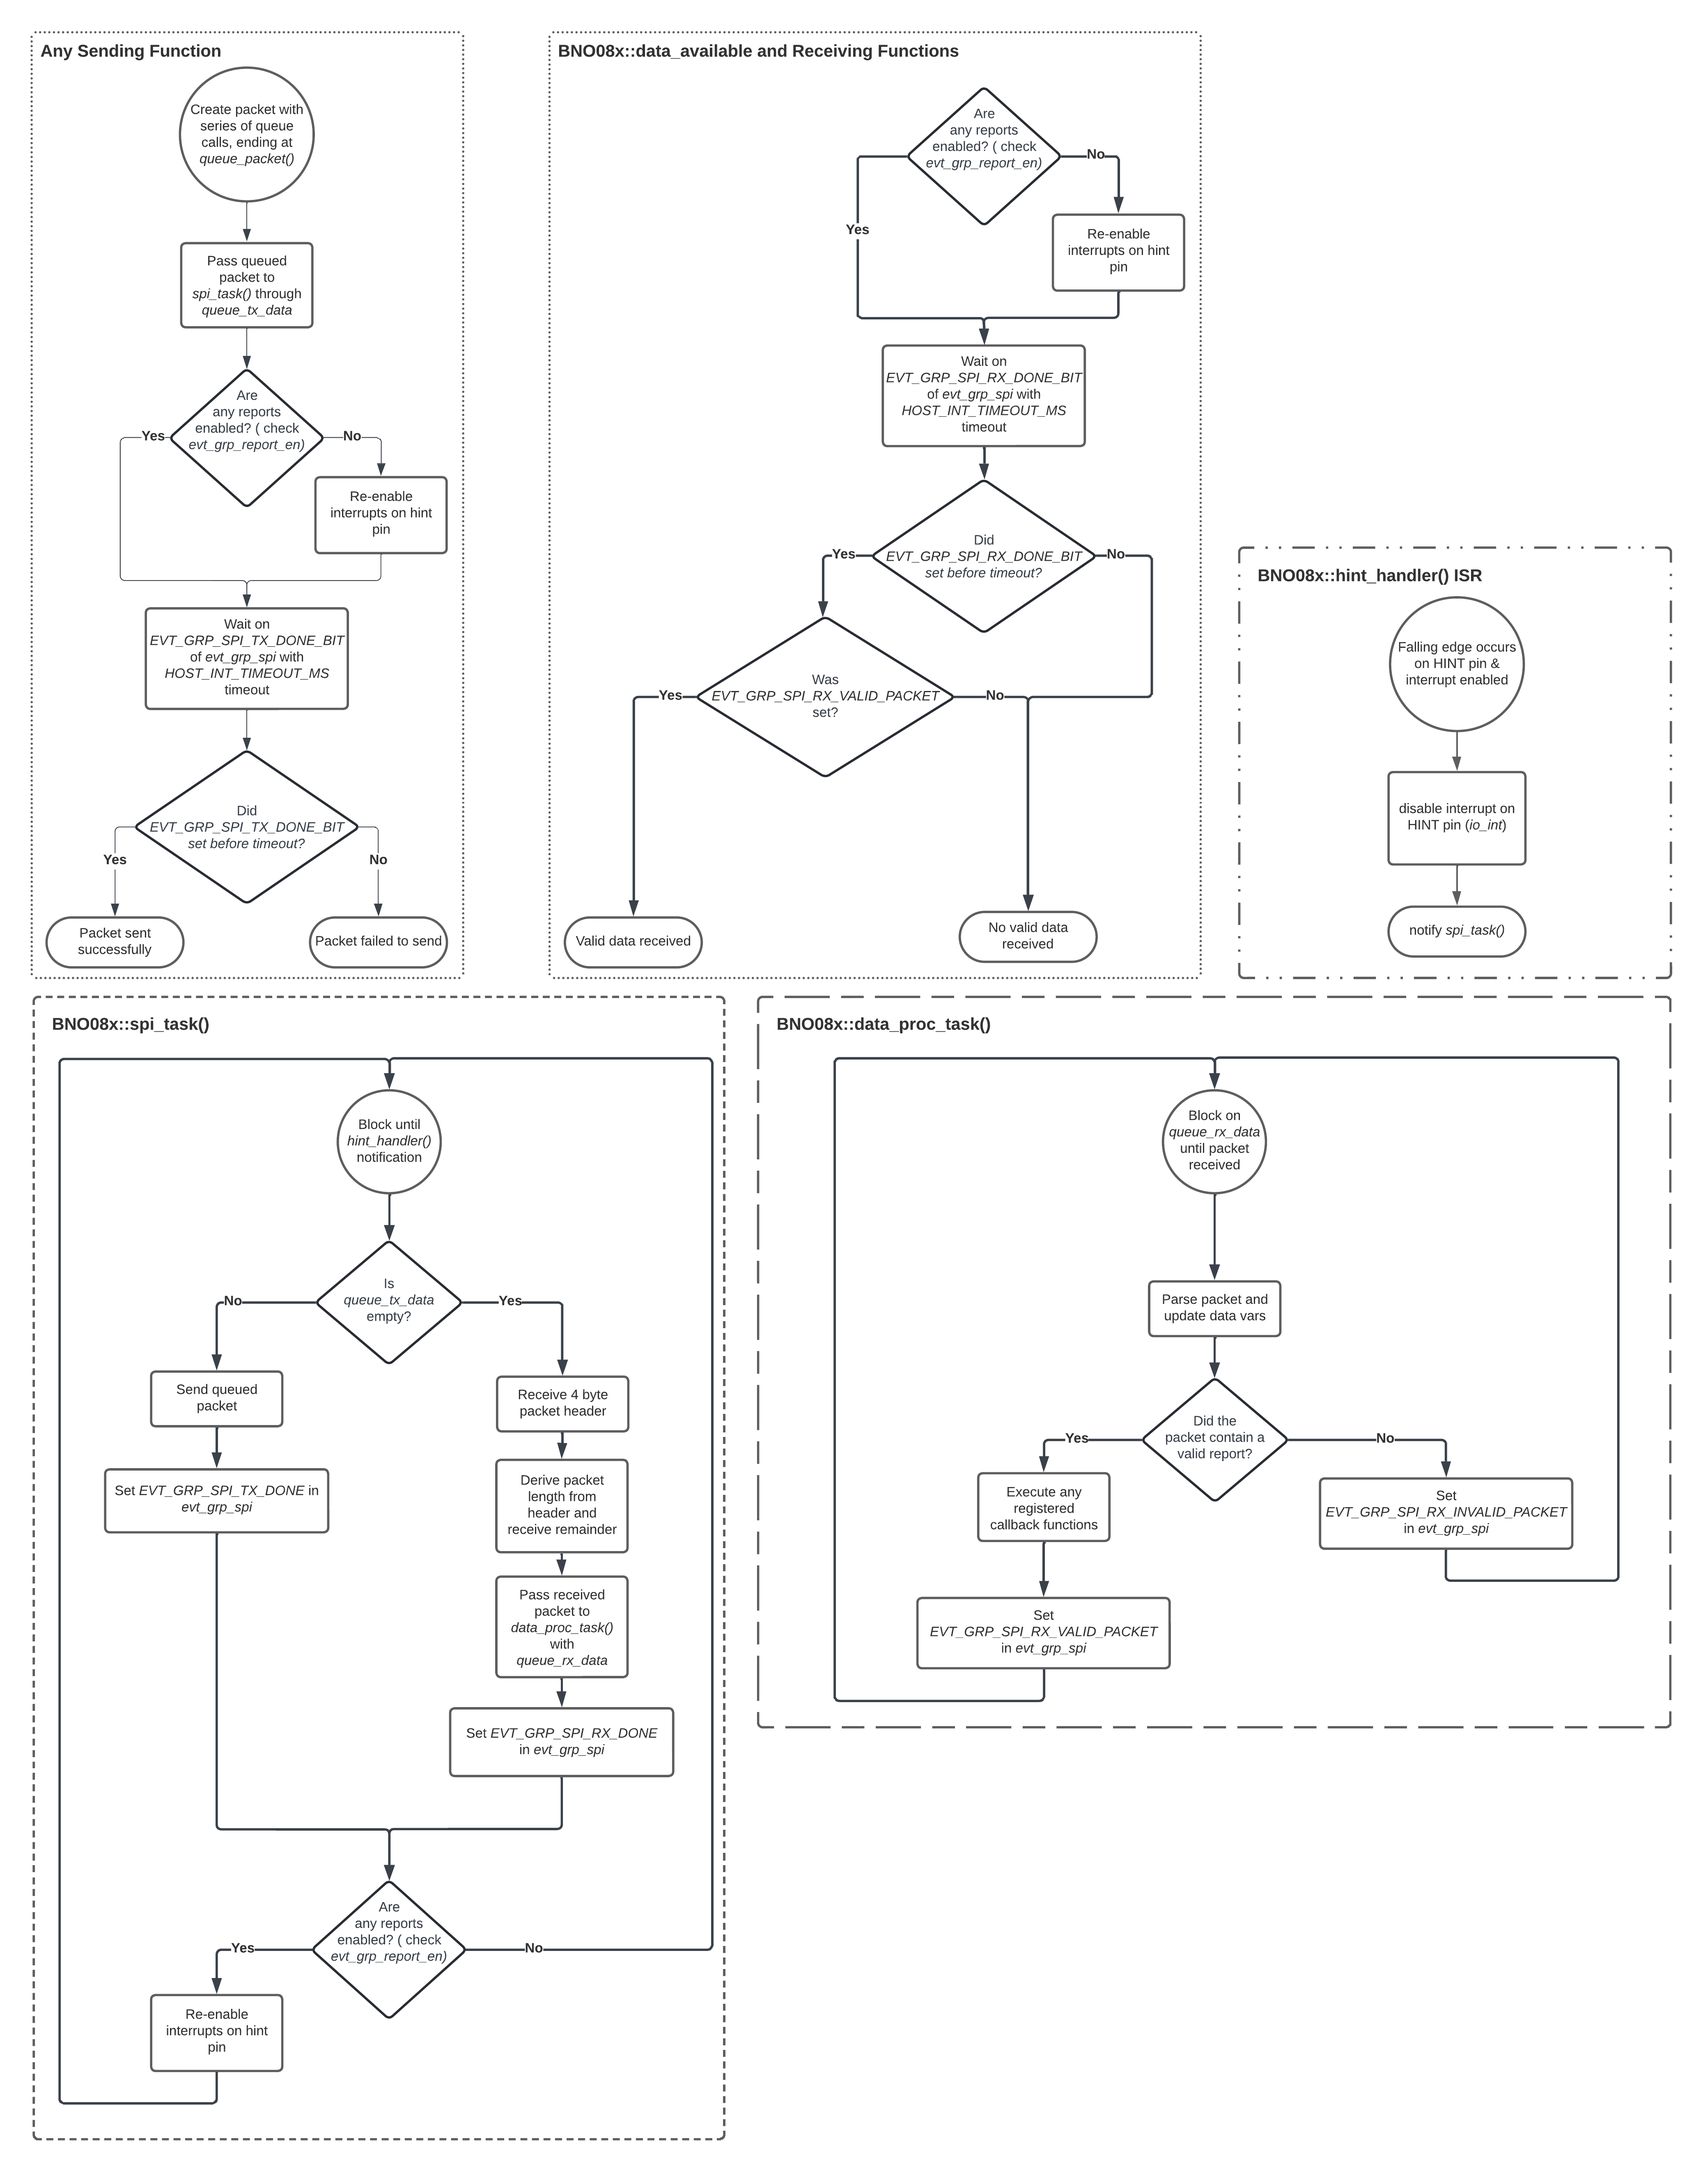
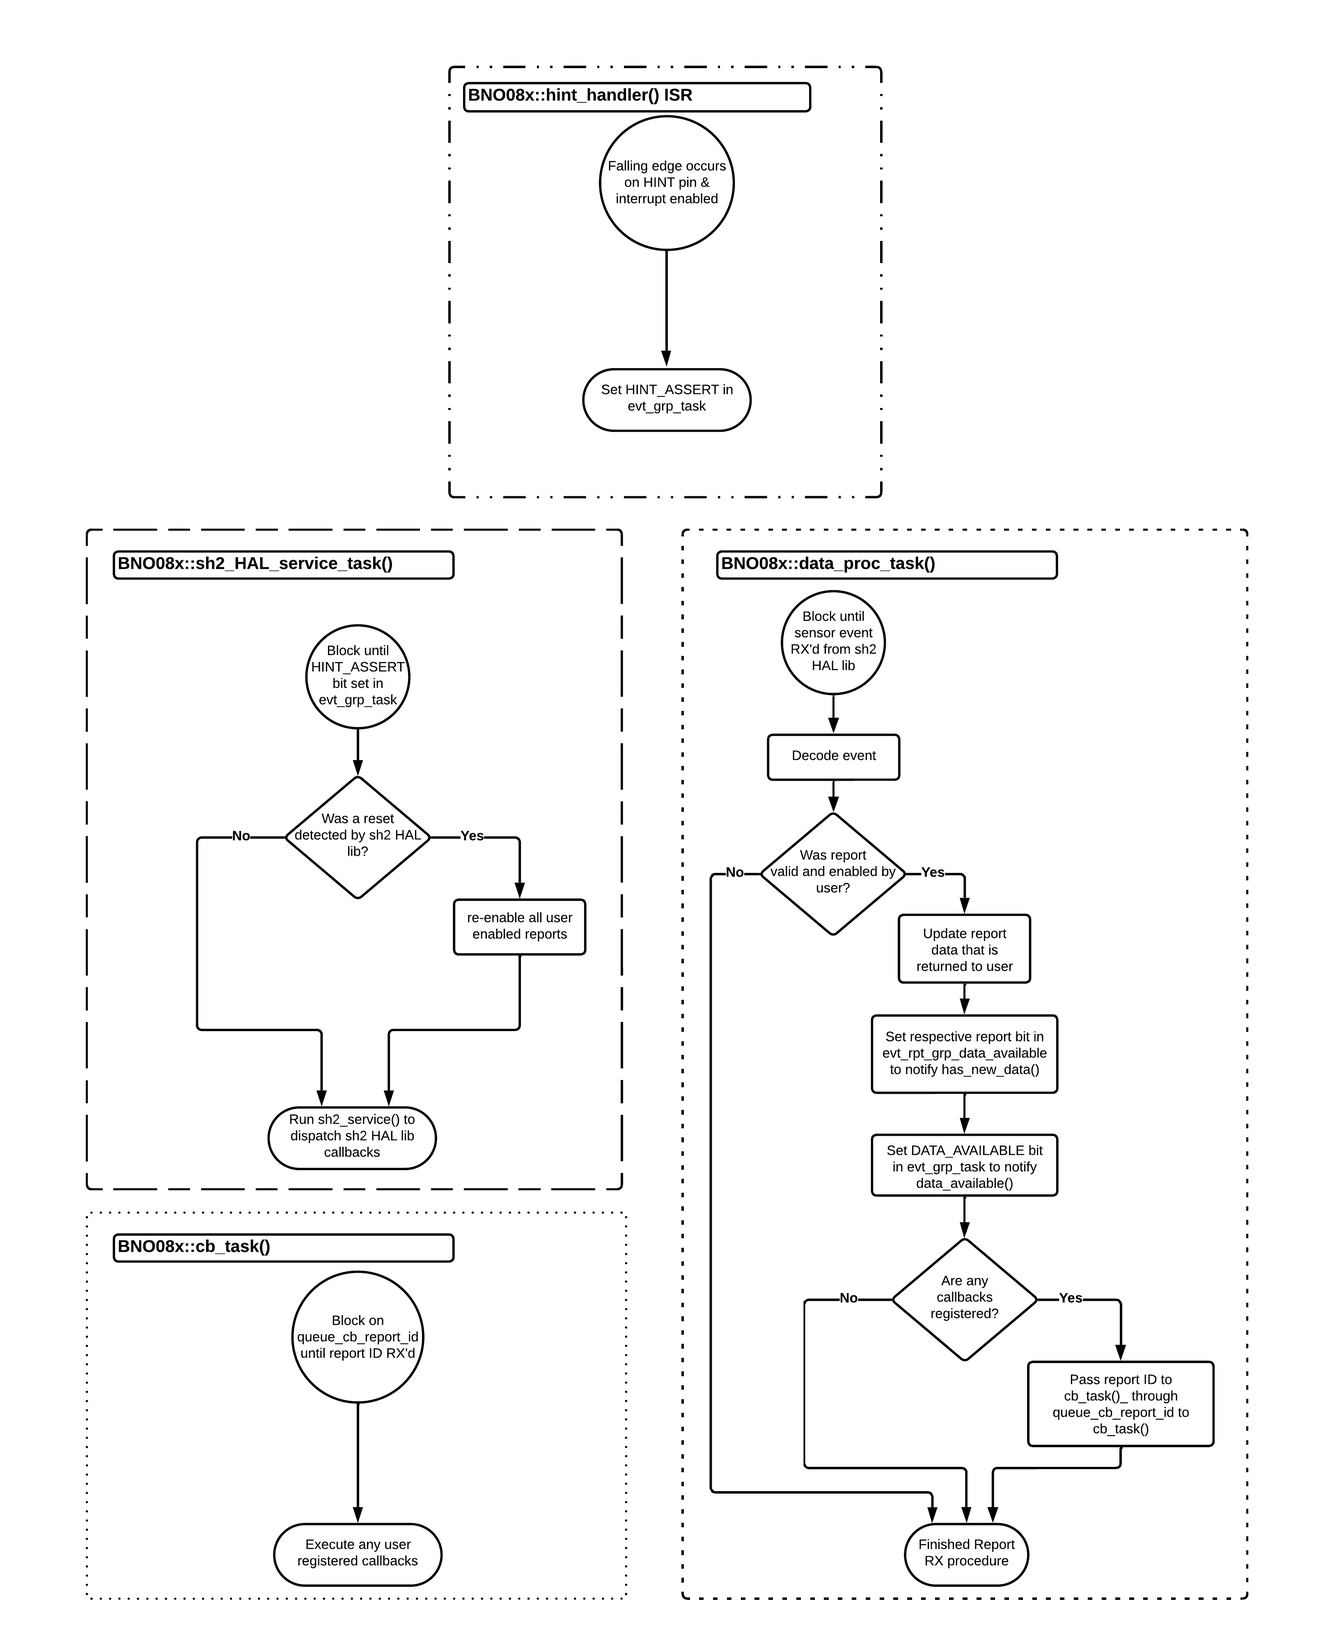
README.md overhaul

diff --git a/include/BNO08xPrivateTypes.hpp b/include/BNO08xPrivateTypes.hpp
@@ -32,10 +32,10 @@ namespace BNO08xPrivateTypes
             bool isr_handler;          ///< True if HINT ISR handler has been initialized.
             bool spi_bus;              ///< True if spi_bus_initialize() has been called successfully.
             bool spi_device;           ///< True if spi_bus_add_device() has been called successfully.
-            bool sh2_HAL;              ///< True if sh2_open() has been called successfully.
             bool data_proc_task;       ///< True if xTaskCreate has been called successfully for data_proc_task.
             bool sh2_HAL_service_task; ///< True if xTaskCreate has been called successfully for sh2_HAL_service_task.
             bool cb_task;              ///< True if xTaskCreate has been called successfully for cb_task.
+            bool sh2_HAL;              ///< True if sh2_open() has been called successfully.
 
             bno08x_init_status_t()
                 : gpio_outputs(false)
@@ -47,6 +47,7 @@ namespace BNO08xPrivateTypes
                 , data_proc_task(false)
                 , sh2_HAL_service_task(false)
                 , cb_task(false)
+                , sh2_HAL(false)
             {
             }
     } bno08x_init_status_t;

diff --git a/README.md b/README.md
@@ -32,9 +32,11 @@
 
 esp32_BNO08x is a C++ component for esp-idf v5.x, serving as a driver for both BNO080 and BNO085 IMUs.  
 
-Originally based on the SparkFun BNO080 Arduino Library, it has since diverged significantly in implementation while retaining all original features and more, including callback functions enabled by its multi-tasked approach.
+Originally based on the SparkFun BNO080 Arduino Library, it has since diverged significantly in implementation, taking a multi-tasked approach to avoid wasting CPU time polling the HINT pin of the IMU. Currently, only SPI is supported. There are no plans to support I2C due to unpredictable behavior caused by an esp32 I2C driver silicon bug. UART support may be implemented in the future.
 
-Currently, only SPI is supported. There are no plans to support I2C due to unpredictable behavior caused by an esp32 I2C driver silicon bug. UART support may be implemented in the future.
+**NOTE: If you are here because this most recent update broke your code:**  
+You can still use the old version on the `no_sh2_HAL` branch of this repo. It will no longer receive support. It's highly recommended you update your code base to this version as it uses the official [Hillcrest Labs sh2 HAL lib](https://github.com/ceva-dsp/sh2) to handle sh2 SHTP communication with the IMU, instead of my own implementation. It is better tested and more reliable at the cost of slightly more overhead. 
+<p align="right">(<a href="#readme-top">back to top</a>)</p>
 
 ## Getting Started
 <p align="right">(<a href="#readme-top">back to top</a>)</p>
@@ -42,7 +44,7 @@ Currently, only SPI is supported. There are no plans to support I2C due to unpre
 ### Wiring
 The default wiring is depicted below, it can be changed at driver initialization (see example section).  
 
-If your ESP does not have the GPIO pin numbers depicted below, you **must change the default GPIO settings in menuconfig**. See the Menuconfig section. 
+**If your ESP does not have the GPIO pin numbers depicted below, you must change the default GPIO settings in menuconfig**. See the Menuconfig section. 
 
 ![image](README_images/esp32_BNO08x_wiring.png)
 <p align="right">(<a href="#readme-top">back to top</a>)</p>
@@ -82,21 +84,23 @@ To access the menu:
 2. Scroll down to the esp_BNO08x menu and enter it, if you're using vsCode you may have to use the "j" and "k" keys instead of the arrow keys.
     ![image](README_images/esp32_BNO08x_menuconfig_1.png)
 
-3. Modify whatever settings you'd like from the sub menus. The GPIO Configuration menu allows for the default GPIO pins to be modified, the SPI Configuration menu allows for the default host peripheral, SCLK frequency, and queue size to be modified, the Logging menu allows for the enabling and disabling of log/print statements, and the Callbacks menu allows for the default size of the call-back execution task to be modified.
+3. Modify whatever settings you'd like from the sub menus.  
     ![image](README_images/esp32_BNO08x_menuconfig_2.png)
+    - The GPIO Configuration menu allows for the default GPIO pins to be modified.
+    - The SPI Configuration menu allows for the default host peripheral, SCLK frequency, and SPI queue size to be modified.
+    - The Tasks menu allows for the stack size of the three tasks utilized by this library to be modified. 
+    - The Callbacks menu allows for the size of the callback queue and maximum amount of callbacks to be modified. 
+    - The Timeouts menu allows the length of various timeouts/delays to be set.
+    - The Logging menu allows for the enabling and disabling of serial log/print statements for production code.
 <p align="right">(<a href="#readme-top">back to top</a>)</p>
 
 ### Examples
 There are two ways data returned from the BNO08x can be accessed with this library:
 
 1. **Polling Method with** `data_available()` **Function**:
-  - Use the `data_available()` function to poll for new data, similar to the SparkFun library.
-  - Behavior: It is a blocking function that returns `true` when new data is received or `false` if a timeout occurs.
   - See the **Polling Example** below.
 
 2. **Callback Registration with** `register_cb()` **Function**:
-  - Register callback functions that automatically execute upon receiving new data.
-  - Behavior: The registered callback will be invoked whenever new data is available.
   - See the **Call-Back Function Example** below. 
   
 #### Polling Example
@@ -104,97 +108,147 @@ There are two ways data returned from the BNO08x can be accessed with this libra
 #include <stdio.h>
 #include "BNO08x.hpp"
 
+static const constexpr char *TAG = "Main";
+
 extern "C" void app_main(void)
 {
-    BNO08x imu; //create IMU object with default wiring scheme
-    float x, y, z = 0;
-
-    //if a custom wiring scheme is desired instead of default:
+    static BNO08x imu;
+    // if a custom wiring scheme is desired instead of default:
 
     /*
-    bno08x_config_t imu_config;     //create config struct
-    imu_config.io_mosi = GPIO_NUM_X; //assign pin
-    imu_config.io_miso = GPIO_NUM_X; //assign pin
+    bno08x_config_t imu_config;        //create config struct
+    imu_config.io_mosi = GPIO_NUM_X;   //assign pin
+    imu_config.io_miso = GPIO_NUM_X;   //assign pin
     //etc...
-    BNO08x imu(imu_config); //pass config to BNO08x constructor
+    BNO08x imu(imu_config);            //pass config to BNO08x constructor
     */
-    
 
-    imu.initialize();  //initialize IMU
-
-    //enable gyro & game rotation vector
-    imu.enable_game_rotation_vector(100000UL); //100,000us == 100ms report interval
-    imu.enable_calibrated_gyro(150000UL); //150,000us == 150ms report interval 
-
-    while(1)
+    // initialize imu
+    if (!imu.initialize())
     {
-        //print absolute heading in degrees and angular velocity in Rad/s
-        if(imu.data_available())
-        {
-            x = imu.get_calibrated_gyro_velocity_X();
-            y = imu.get_calibrated_gyro_velocity_Y();
-            z = imu.get_calibrated_gyro_velocity_Z();
-            ESP_LOGW("Main", "Velocity: x: %.3f y: %.3f z: %.3f", x, y, z);
-
-            x = imu.get_roll_deg();
-            y = imu.get_pitch_deg();
-            z = imu.get_yaw_deg();
-            ESP_LOGI("Main", "Euler Angle: x (roll): %.3f y (pitch): %.3f z (yaw): %.3f", x, y, z);
-        }
+        ESP_LOGE(TAG, "Init failure, returning from main.");
+        return;
     }
 
+    // enable game rotation vector and calibrated gyro reports
+    imu.rpt.rv_game.enable(100000UL);  // 100,000us == 100ms report interval
+    imu.rpt.cal_gyro.enable(100000UL); // 100,000us == 100ms report interval
+
+    while (1)
+    {
+        // block until new report is detected
+        if (imu.data_available())
+        {
+            // check for game rotation vector report
+            if (imu.rpt.rv_game.has_new_data())
+            {
+                // get absolute heading in degrees
+                bno08x_euler_angle_t euler = imu.rpt.rv_game.get_euler();
+                // display heading
+                ESP_LOGI(TAG, "Euler Angle: x (roll): %.2f y (pitch): %.2f z (yaw): %.2f", euler.x, euler.y, euler.z);
+            }
+
+            // check for cal gyro report
+            if (imu.rpt.cal_gyro.has_new_data())
+            {
+                // get angular velocity in rad/s
+                bno08x_gyro_t velocity = imu.rpt.cal_gyro.get();
+                // display velocity
+                ESP_LOGW(TAG, "Velocity: x: %.2f y: %.2f z: %.2f", velocity.x, velocity.y, velocity.z);
+            }
+        }
+    }
 }
 ```
+- Initialize the IMU and enable desired reports. 
+- Use the `data_available()` function to poll for new data, similar to the SparkFun library.
+- Behavior: It is a blocking function that returns `true` when new data is received or `false` if a timeout occurs.
+- Check for report flavor received if desired, with `has_new_data()`
 
 #### Call-Back Function Example
 ```cpp
 #include <stdio.h>
 #include "BNO08x.hpp"
 
+static const constexpr char *TAG = "Main";
+
 extern "C" void app_main(void)
 {
-    BNO08x imu; // create IMU object with default wiring scheme
-
+    static BNO08x imu;
     // if a custom wiring scheme is desired instead of default:
 
     /*
-    bno08x_config_t imu_config;     //create config struct
-    imu_config.io_mosi = GPIO_NUM_X; //assign pin
-    imu_config.io_miso = GPIO_NUM_X; //assign pin
+    bno08x_config_t imu_config;        //create config struct
+    imu_config.io_mosi = GPIO_NUM_X;   //assign pin
+    imu_config.io_miso = GPIO_NUM_X;   //assign pin
     //etc...
-    BNO08x imu(imu_config); //pass config to BNO08x constructor
+    BNO08x imu(imu_config);            //pass config to BNO08x constructor
     */
 
-    imu.initialize(); // initialize IMU
+    // initialize imu
+    if (!imu.initialize())
+    {
+        ESP_LOGE(TAG, "Init failure, returning from main.");
+        return;
+    }
 
-    // enable gyro & game rotation vector
-    imu.enable_game_rotation_vector(100000UL); // 100,000us == 100ms report interval
-    imu.enable_calibrated_gyro(150000UL);                 // 150,000us == 150ms report interval
+    // enable game rotation vector and calibrated gyro reports
+    imu.rpt.rv_game.enable(100000UL);  // 100,000us == 100ms report interval
+    imu.rpt.cal_gyro.enable(100000UL); // 100,000us == 100ms report interval
+    
 
-    // register a callback function (in this case a lambda function, but it doesn't have to be)
-    imu.register_cb(
-        [&imu]()
-        {
-            // callback function contents, executed whenever new data is parsed
-            // print absolute heading in degrees and angular velocity in Rad/s
-            float x, y, z = 0;
-            x = imu.get_calibrated_gyro_velocity_X();
-            y = imu.get_calibrated_gyro_velocity_Y();
-            z = imu.get_calibrated_gyro_velocity_Z();
-            ESP_LOGW("Main", "Velocity: x: %.3f y: %.3f z: %.3f", x, y, z);
+    // There are 3 different flavors of callbacks available:
 
-            x = imu.get_roll_deg();
-            y = imu.get_pitch_deg();
-            z = imu.get_yaw_deg();
-            ESP_LOGI("Main", "Euler Angle: x (roll): %.3f y (pitch): %.3f z (yaw): %.3f", x, y, z);
-        });
+    // 1) register a callback to execute when new data is received for any report
+    imu.register_cb([&imu]()
+                    {
+                        // check for game rotation vector report
+                        if (imu.rpt.rv_game.has_new_data())
+                        {
+                            // get absolute heading in degrees
+                            bno08x_euler_angle_t euler = imu.rpt.rv_game.get_euler();
+                            // display heading
+                            ESP_LOGI(TAG, "Euler Angle: x (roll): %.2f y (pitch): %.2f z (yaw): %.2f", euler.x, euler.y, euler.z);
+                        } 
+                    });
+
+    // 2) register a callback that is only executed for a specific report
+    imu.rpt.cal_gyro.register_cb([&imu]()
+                                 {
+                                    // get angular velocity in rad/s
+                                    bno08x_gyro_t velocity = imu.rpt.cal_gyro.get();
+                                    // display velocity
+                                    ESP_LOGI(TAG, "Velocity: x: %.2f y: %.2f z: %.2f", velocity.x, velocity.y, velocity.z); 
+                                });
+
+    // 3) register a callback this passed report ID of report that asserted callback
+    imu.register_cb([](uint8_t rpt_ID)
+                    {
+                        switch (rpt_ID)
+                        {
+                            case SH2_GAME_ROTATION_VECTOR:
+                                ESP_LOGW(TAG, "Game RV report RX");
+                                break;
+
+                            case SH2_CAL_GYRO:
+                                ESP_LOGW(TAG, "Cal Gyro report RX");
+                                break;
+
+                            default:
+
+                                break;
+                        } 
+                    });
 
     while (1)
     {
-        vTaskDelay(300 / portTICK_PERIOD_MS); // delay here is irrelevant, we just don't want to trip cpu watchdog
+        vTaskDelay(10000UL / portTICK_PERIOD_MS); // delay here is irrelevant, we just don't want to trip cpu watchdog
     }
 }
 ```
+- Register callback functions that automatically execute upon receiving new data.
+- Behavior: The registered callback will be invoked whenever new data is available.
+- It is possible to register a callback to one report, or all reports. 
 <p align="right">(<a href="#readme-top">back to top</a>)</p>
 
 ## Unit Tests
@@ -243,7 +297,8 @@ It can be used to verify some of the basic features of a BNO08x device and this 
 Tests are implemented with the [unity unit testing component](https://docs.espressif.com/projects/esp-idf/en/stable/esp32/api-guides/unit-tests.html).
 
 To add a test, create a new .cpp file, or modify one of the existing ones in `esp32_BNO08x/test/`. 
-Follow the existing test structure as an example, use the `TEST_CASE(){}` macro.  
+Follow the existing test structure as an example, use the `TEST_CASE(){}` macro, then add a function
+to the `esp32BNO08x/include/BNO08xTestSuite.hpp` file to run your test(s).   
 
 Any tests added will automatically be detected at build time. 
 <p align="right">(<a href="#readme-top">back to top</a>)</p>
@@ -253,17 +308,14 @@ API documentation generated with doxygen can be found in the documentation direc
 <p align="right">(<a href="#readme-top">back to top</a>)</p>
 
 ## Program Flowcharts
-The following charts illustrate the program flow this library implements for sending and receiving data from BNO08x.  
-These are here to aid development for anyone looking to modify, fork, or contribute.  
+The following charts illustrate the program flow this library implements to deal with handling sh2 HAL lib in a multi-tasked manner. These are here to aid development for anyone looking to modify, fork, or contribute.  
+Sh2 HAL lib handles all communication with the IMU through callbacks which can be viewed in `BNO08xSH2HAL.hpp`. Sh2 HAL lib handles the sh2 SHTP protocol imposed ontop of SPI, while the callbacks give it the means to send/receive over SPI, reset the device, etc...
 
 ![image](README_images/esp32_BNO08x_flowchart.png)
 <p align="right">(<a href="#readme-top">back to top</a>)</p>
 
 
 ## Acknowledgements
-Special thanks to the original creators of the sparkfun BNO080 library. Developing this without a reference would have been much more time consuming.  
-https://github.com/sparkfun/SparkFun_BNO080_Arduino_Library  
-
 Special thanks to Anton Babiy, aka hwBirdy007 for helping with debugging SPI.   
 https://github.com/hwBirdy007  
 
